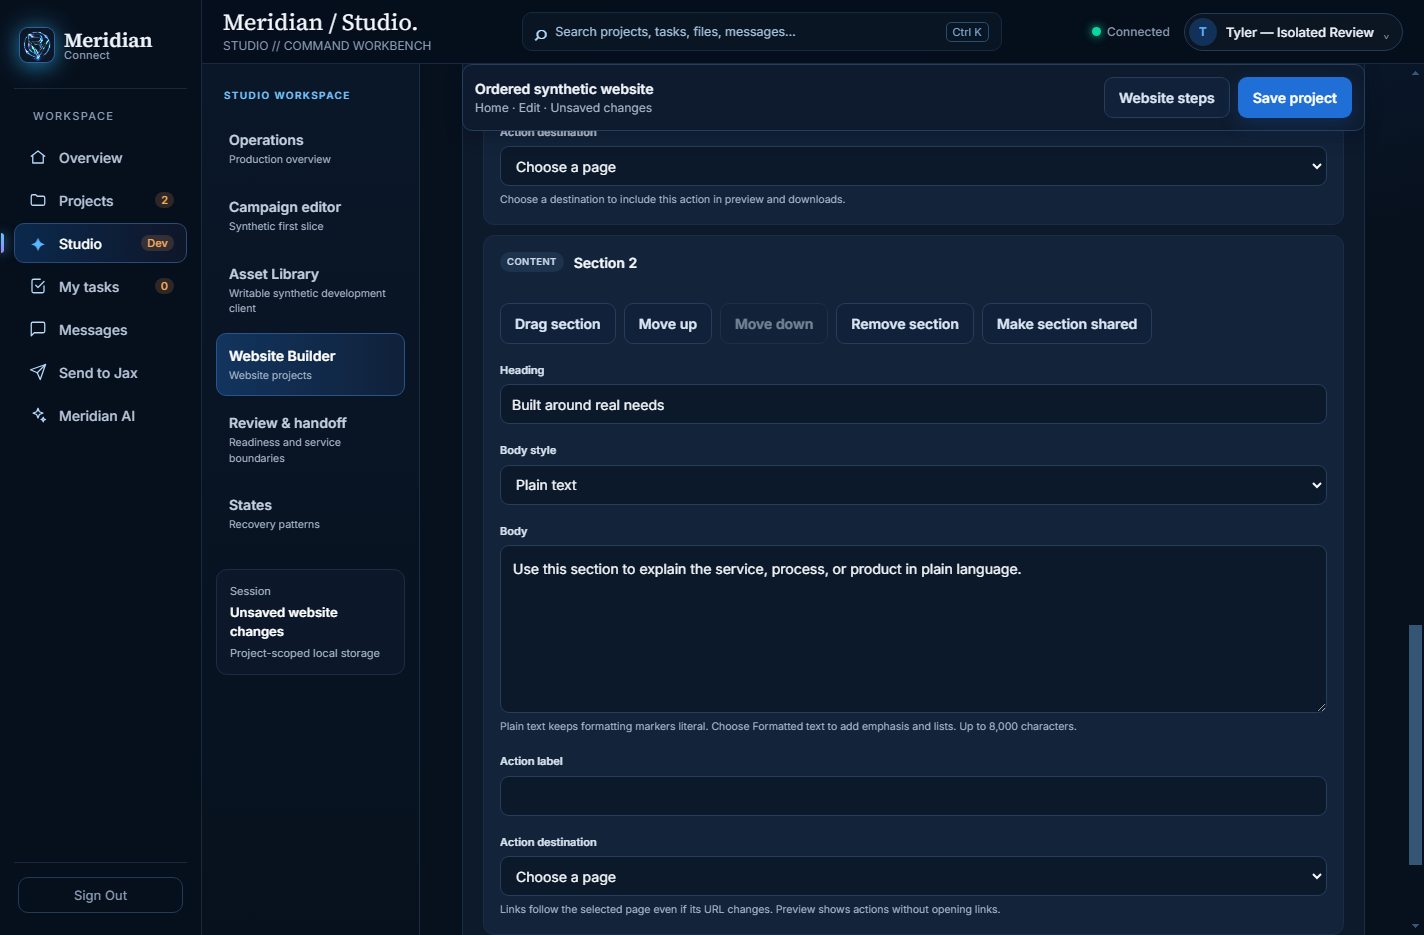
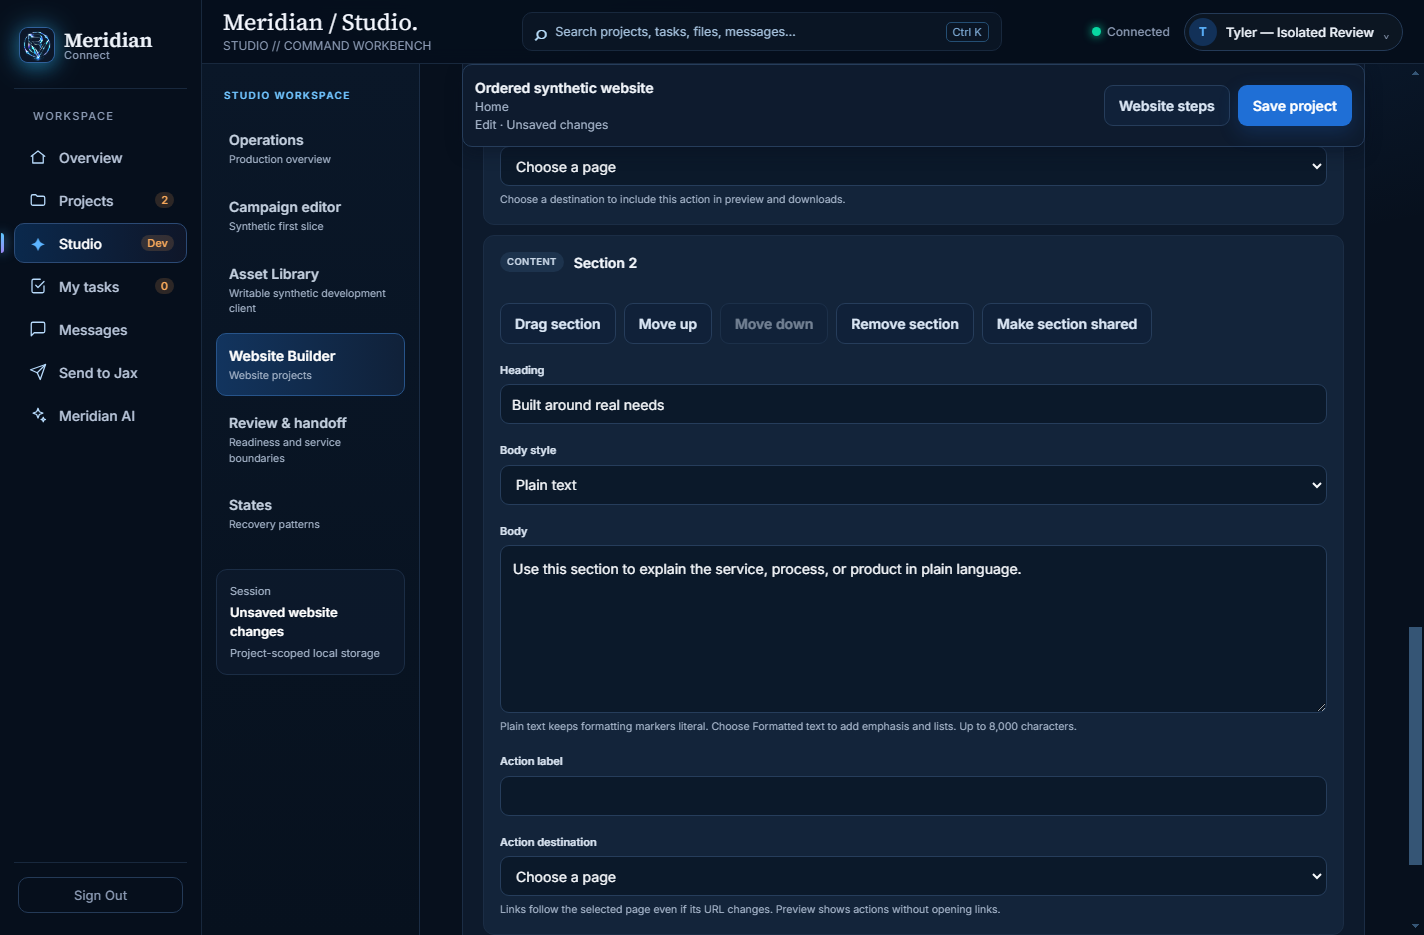
fix(studio): keep save status visible with long page names (#9)

Changed region(s): [[0.7725, 0.062, 0.9579, 0.1551], [0.3399, 0.093, 0.4635, 0.1551]]

diff --git a/src/renderer/studio-ui/studio-shell.js b/src/renderer/studio-ui/studio-shell.js
@@ -544,7 +544,7 @@
 
       const page = project.pages.find(item => item.id === state.selectedPageId) || project.pages[0];
       return `<div class="studio-surface website-builder" data-surface="website">
-        <div class="website-workbar" role="region" aria-label="Current website and save controls"><div class="website-workbar__copy"><strong title="${attr(project.name)}">${escapeHtml(project.name)}</strong><span title="${attr(page.title)}">${escapeHtml(page.title)} · ${escapeHtml(step.label)} · ${state.dirty ? 'Unsaved changes' : websiteStoragePersistent ? 'Saved on this device' : 'Session only'}</span></div><div class="website-workbar__actions"><button type="button" class="studio-button studio-button--secondary" data-action="website-show-steps" data-focus-key="website-show-steps">Website steps</button><button type="button" class="studio-button studio-button--primary" data-action="website-save" data-focus-key="website-quick-save" ${state.dirty ? '' : 'disabled'}>Save project</button></div></div>
+        <div class="website-workbar" role="region" aria-label="Current website and save controls"><div class="website-workbar__copy"><strong title="${attr(project.name)}">${escapeHtml(project.name)}</strong><span title="${attr(page.title)}">${escapeHtml(page.title)}</span><span class="website-workbar__status">${escapeHtml(step.label)} · ${state.dirty ? 'Unsaved changes' : websiteStoragePersistent ? 'Saved on this device' : 'Session only'}</span></div><div class="website-workbar__actions"><button type="button" class="studio-button studio-button--secondary" data-action="website-show-steps" data-focus-key="website-show-steps">Website steps</button><button type="button" class="studio-button studio-button--primary" data-action="website-save" data-focus-key="website-quick-save" ${state.dirty ? '' : 'disabled'}>Save project</button></div></div>
         <section class="studio-editor-heading" aria-labelledby="website-builder-title"><div><span class="studio-kicker">Website Builder</span><h2 id="website-builder-title">${escapeHtml(project.name)}</h2><p>One website, four focused steps. Return to any step without losing your current edits.</p></div><div class="studio-save-cluster"><button type="button" class="studio-button studio-button--secondary" data-action="website-list">All websites</button><button type="button" class="studio-button studio-button--secondary" data-action="website-undo">Undo</button><button type="button" class="studio-button studio-button--secondary" data-action="website-redo">Redo</button><button type="button" class="studio-button studio-button--secondary" data-action="website-save-copy" title="Save your current edits as a new website on this device">Save separate copy</button></div></section>
         ${state.error ? `<div class="studio-inline-error" role="alert"><div><strong>Website action needs attention.</strong><p>${escapeHtml(state.error)}</p></div></div>` : ''}
         <div class="website-flow-status" role="status" aria-live="polite" tabindex="-1"><strong class="website-save-state${state.dirty ? ' is-dirty' : ''}">${escapeHtml(saveLabel)}</strong><span>${escapeHtml(saveHelp)}</span><span>${escapeHtml(state.status)}</span></div>

diff --git a/src/renderer/studio-ui/studio-ui.css b/src/renderer/studio-ui/studio-ui.css
@@ -785,3 +785,5 @@ body.view-studio .workspace-main > #mx-dock { display: none !important; }
 .website-shortcuts, .website-section-index { display: flex; flex-wrap: wrap; align-items: center; gap: 8px; margin: 12px 0; }
 .website-shortcuts span { color: var(--studio-muted); font-size: 12px; flex: 1 1 240px; }
 .website-section-index button { max-width: 100%; white-space: normal; overflow-wrap: anywhere; text-align: left; }
+
+.website-workbar__copy .website-workbar__status { overflow: visible; text-overflow: clip; white-space: normal; }

diff --git a/docs/studio/design/9/ORDERED_DELIVERY.md b/docs/studio/design/9/ORDERED_DELIVERY.md
@@ -1,0 +1,56 @@
+# Ordered review delivery — October 18, 2026
+
+The review follow-up is published on existing PR #39. Implementation dfb8fbc
+and harness normalization008c9ee preserve the previous combined branch and add
+draft-close protection, readable full-storage startup, checkpoint identity
+compatibility, clearer tool wording, a sticky context/Save bar and focused
+shared/checkpoint/section shortcuts. A bounds assertion reproduced/fixed the
+Shared sections heading hidden under the bar.
+
+## Verified published milestone
+
+Exact source008c9ee97190613a4365c41f2ee855de77b94e96, tree
+99fdfe294b636579140e860dce19d38d99c7431d:
+
+- Source run39151311668 passes.
+- Linux guided run39151311671 passes.
+- Cross-chair Linux/Windows run39151311702 passes with Asset075ec2a,
+  composed tree6263b9afc1c39555e89ec9805972501227de7bb5.
+- Windows installed/actual Contrast run39151311691 passes first attempt.
+  Its Actions merge commit388c568 has the exact same source tree above.
+  Installed source matches checkout; ordinary employee gate/startup/AX/Tab pass.
+  Actual OS Contrast was enabled and original flags restored in the successful
+  guarded step. This does not repair earlier intermittent NSIS failures.
+
+Downloaded all four archives and matched their SHA-256 digests against GitHub.
+Verified source/composition/installed records; independently CRC-checked all
+six actual exported Website ZIPs (two safe HTML entries each). Inspected actual
+Windows Contrast editor and Linux200% preview captures. Exact artifact/ZIP
+hashes and input trees are in renders/ordered-review/hosted-008c9ee.json.
+
+## Long-name refinement in this commit
+
+The hosted200% capture exposed step/save status truncated behind a long page
+name. Keep the page name independently ellipsized and give step/status their
+own wrapping line. Actual local Electron now uses a120-character page title
+across20 viewport/step combinations and asserts status remains untruncated;
+Save/step focus and checkpoint/shared/section visible targets pass. Updated
+images and source byte hashes are in renders/ordered-review/evidence.json.
+Hosted results above precede this final refinement; use current PR39 checks
+for its hosted verification, without treating older captures as new source.
+
+## Delivery state and remaining gaps
+
+Existing issue9 Project item read back Building→Review→Testing; Chair2, P1
+and Studio UI/UX unchanged. No Complete or closure. Documented CLI shorthand
+was unsupported; the actual update used verified existing item, Project, field
+and option IDs, with successful readback after each write. No duplicate item.
+
+PR39 description/readback records this work; all PRs stay unmerged. Exact
+changes contain no main/preload/API, package/installer, permission-policy,
+backend or Cassy implementation edits. No secrets/customer data/paid service
+calls or distribution. Human Narrator/native pointer, independent review,
+authoritative services and owner release decisions remain outstanding.
+
+The earlier ORDERED_READINESS/REVIEW records describe the local review before
+publication; this delivery record supersedes their uncommitted/Building state.

diff --git a/WEBSITE_STUDIO_IMPLEMENTATION.md b/WEBSITE_STUDIO_IMPLEMENTATION.md
@@ -1,17 +1,14 @@
 # Website Studio technical implementation
 
-## Latest local review — October 18, 2026
+## Current ordered-review delivery — October 18, 2026
 
-The ordered review is on `codex/studio-thirty-checks`, based on PR #39
-`c5a205c`. Its uncommitted changes are separate from published PR evidence.
-See `docs/studio/design/9/ORDERED_REVIEW.md` and `ORDERED_READINESS.md`.
-The last published verified source is `9f21362` (192 local / 219 composed tests);
-`CREATION_AND_CATALOGUE_INTEGRITY.md` records exact runs and limits.
-Older source IDs, test totals and package results below are historical milestones,
-not verification of the current uncommitted source. Local pages, nested navigation,
-linked sections, device previews and whole-site ZIP are implemented. Authoritative
-services, media placement, provider AI and release acceptance remain open.
-
+The ordered review is published on existing PR #39. Source008c9ee passed
+source/Linux/cross-chair/Windows-installed verification. This branch also
+contains the final long-name step/save-status refinement; current PR checks
+track that revision. See `docs/studio/design/9/ORDERED_DELIVERY.md` for exact
+source trees, artifact hashes, screenshots, board state and remaining gates.
+Earlier source IDs/test totals/package results below retain their historical
+scope. Local Website data is not authoritative team storage or release acceptance.
 
 ## Current implementation record — 2026-10-17
 

diff --git a/WEBSITE_STUDIO_DELIVERY.md b/WEBSITE_STUDIO_DELIVERY.md
@@ -1,17 +1,14 @@
 # Website Studio recovery and delivery
 
-## Latest local review — October 18, 2026
+## Current ordered-review delivery — October 18, 2026
 
-The ordered review is on `codex/studio-thirty-checks`, based on PR #39
-`c5a205c`. Its uncommitted changes are separate from published PR evidence.
-See `docs/studio/design/9/ORDERED_REVIEW.md` and `ORDERED_READINESS.md`.
-The last published verified source is `9f21362` (192 local / 219 composed tests);
-`CREATION_AND_CATALOGUE_INTEGRITY.md` records exact runs and limits.
-Older source IDs, test totals and package results below are historical milestones,
-not verification of the current uncommitted source. Local pages, nested navigation,
-linked sections, device previews and whole-site ZIP are implemented. Authoritative
-services, media placement, provider AI and release acceptance remain open.
-
+The ordered review is published on existing PR #39. Source008c9ee passed
+source/Linux/cross-chair/Windows-installed verification. This branch also
+contains the final long-name step/save-status refinement; current PR checks
+track that revision. See `docs/studio/design/9/ORDERED_DELIVERY.md` for exact
+source trees, artifact hashes, screenshots, board state and remaining gates.
+Earlier source IDs/test totals/package results below retain their historical
+scope. Local Website data is not authoritative team storage or release acceptance.
 
 ## Current implementation record — 2026-10-17
 

diff --git a/WEBSITE_STUDIO_TEST_REPORT.md b/WEBSITE_STUDIO_TEST_REPORT.md
@@ -1,17 +1,14 @@
 # Website Studio verification report
 
-## Latest local review — October 18, 2026
+## Current ordered-review delivery — October 18, 2026
 
-The ordered review is on `codex/studio-thirty-checks`, based on PR #39
-`c5a205c`. Its uncommitted changes are separate from published PR evidence.
-See `docs/studio/design/9/ORDERED_REVIEW.md` and `ORDERED_READINESS.md`.
-The last published verified source is `9f21362` (192 local / 219 composed tests);
-`CREATION_AND_CATALOGUE_INTEGRITY.md` records exact runs and limits.
-Older source IDs, test totals and package results below are historical milestones,
-not verification of the current uncommitted source. Local pages, nested navigation,
-linked sections, device previews and whole-site ZIP are implemented. Authoritative
-services, media placement, provider AI and release acceptance remain open.
-
+The ordered review is published on existing PR #39. Source008c9ee passed
+source/Linux/cross-chair/Windows-installed verification. This branch also
+contains the final long-name step/save-status refinement; current PR checks
+track that revision. See `docs/studio/design/9/ORDERED_DELIVERY.md` for exact
+source trees, artifact hashes, screenshots, board state and remaining gates.
+Earlier source IDs/test totals/package results below retain their historical
+scope. Local Website data is not authoritative team storage or release acceptance.
 
 ## Current implementation record — 2026-10-17
 

diff --git a/WEBSITE_STUDIO_AUDIT.md b/WEBSITE_STUDIO_AUDIT.md
@@ -1,17 +1,14 @@
 # Website Studio capability audit
 
-## Latest local review — October 18, 2026
+## Current ordered-review delivery — October 18, 2026
 
-The ordered review is on `codex/studio-thirty-checks`, based on PR #39
-`c5a205c`. Its uncommitted changes are separate from published PR evidence.
-See `docs/studio/design/9/ORDERED_REVIEW.md` and `ORDERED_READINESS.md`.
-The last published verified source is `9f21362` (192 local / 219 composed tests);
-`CREATION_AND_CATALOGUE_INTEGRITY.md` records exact runs and limits.
-Older source IDs, test totals and package results below are historical milestones,
-not verification of the current uncommitted source. Local pages, nested navigation,
-linked sections, device previews and whole-site ZIP are implemented. Authoritative
-services, media placement, provider AI and release acceptance remain open.
-
+The ordered review is published on existing PR #39. Source008c9ee passed
+source/Linux/cross-chair/Windows-installed verification. This branch also
+contains the final long-name step/save-status refinement; current PR checks
+track that revision. See `docs/studio/design/9/ORDERED_DELIVERY.md` for exact
+source trees, artifact hashes, screenshots, board state and remaining gates.
+Earlier source IDs/test totals/package results below retain their historical
+scope. Local Website data is not authoritative team storage or release acceptance.
 
 ## Current delivery record
 

diff --git a/docs/development/handoffs/ISSUE-9-chair-2.md b/docs/development/handoffs/ISSUE-9-chair-2.md
@@ -1,5 +1,20 @@
 # DEV-006 — Chair 2 task handoff
 
+## October 18 published ordered-review follow-up
+
+Published dfb8fbc/008c9ee to existing PR39; source, Linux, cross-chair Linux/
+Windows and Windows-installed/actual Contrast checks pass on008c9ee. Four
+artifact archive digests, source/composed/installed records and six actual site
+ZIPs verified. See ORDERED_DELIVERY.md for exact runs/trees and limits.
+Hosted screenshot review then found long page titles hiding step/save status
+at200%; this commit gives them their own wrapping line. Twenty long-name
+viewport/step checks and visible shortcut targets pass locally; latest PR39
+checks track hosted verification of this final refinement.
+Existing board Building→Review→Testing, each saved value read back. No Complete,
+closure or merge. Remaining human/independent/service/installer/release gates
+are explicit in ORDERED_DELIVERY.md. Earlier uncommitted entries are history.
+
+
 ## October18 ordered30-item local review
 
 Resumed the explicit pause after1–22 and partial23 from Review Meridian build.
